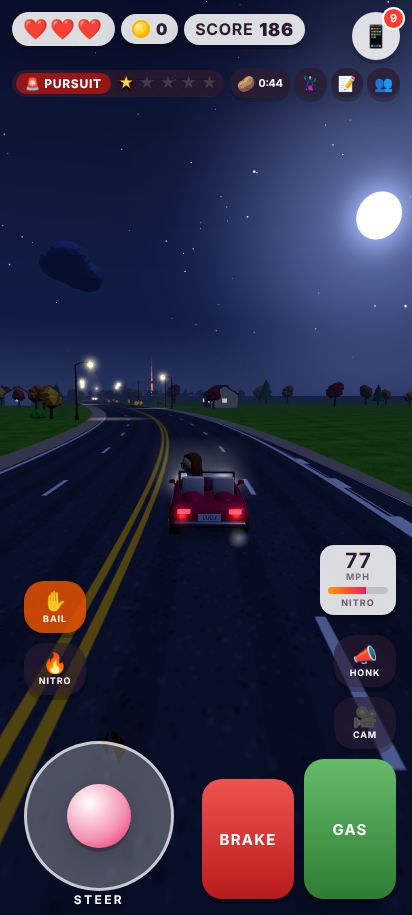
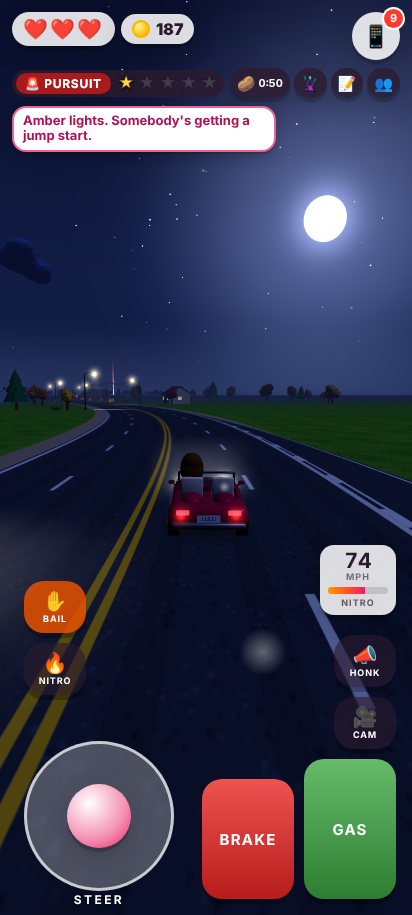
ci/hud: texts that don't need her don't happen (no card either; Ima's walk-back warning stays, react: true); Lulu's line docks outside the clear window on a phone (hud.js › dockSpot), others' lines over the road hide there; no SCORE pill on phones; calm: ≤ 1 text card a minute; hudworst: her bubble 
Claude-Session: https://claude.ai/code/session_01JZVbYDqg8n5SFNs7rVBjSx

diff --git a/3d/js/features/banter/bubbles.js b/3d/js/features/banter/bubbles.js
@@ -8,7 +8,7 @@
 // left of the screen instead.
 import * as THREE from "three";
 import { ctx, css } from "../../core/ctx.js";
-import { bubbleOk } from "../../hud.js";
+import { bubbleOk, phoneHud, dockSpot, inClearWindow } from "../../hud.js";
 import { CAMS } from "../../core/camera.js";
 import { clamp } from "./util.js";
 
@@ -41,6 +41,10 @@ css("banter-bubbles", `
 body.tv .bn-in { font-size: 22px; max-width: 380px; padding: 8px 16px 9px; border-radius: 18px; }
 body.tv .bn-npc .bn-in { font-size: 19px; max-width: 320px; padding: 6px 13px 7px; }
 body.tv .bn-lulu.big .bn-in { font-size: 25px; }
+/* a phone: Lulu's line sits in the left column, out of the way (no tail: it isn't next to her) */
+.bn-lulu.dock .bn-in::before, .bn-lulu.dock .bn-in::after { display: none; }
+.bn-lulu.dock .bn-in { max-width: min(300px, 64vw); text-align: left; }
+@media (min-aspect-ratio: 1/1) { .bn-lulu.dock .bn-in { max-width: min(240px, 27vw); } }
 @media (max-width: 600px), (max-height: 420px) {
   .bn-in { font-size: 13px; max-width: 42vw; padding: 5px 9px 6px; }
   .bn-npc .bn-in { font-size: 11.5px; max-width: 36vw; padding: 3px 8px 4px; }
@@ -96,7 +100,7 @@ export function setHeadSource(fn) { headFn = fn; }
 /** Show a line over Lulu's head for `dur` seconds (replaces what she was saying). */
 export function showLulu(text, dur, { big = false, cat = "" } = {}) {
     L.inner.textContent = text;
-    L.el.className = "bn-b bn-lulu" + (big ? " big" : "");
+    L.el.className = "bn-b bn-lulu" + (big ? " big" : "") + (phoneHud() ? " dock" : "");      // (a phone: docked outside the clear window — ci/hud)
     L.on = true; L.t = 0; L.dur = dur; L.text = text; L.cat = cat; L.n++;
     L.x = L.y = -1;
     L.w = L.h = 0;           // measured once per line, on its first visible frame
@@ -108,6 +112,13 @@ export function luluBubble() { return L; }
 function placeLulu(W, Hh) {
     const cam = ctx.camera, car = ctx.car;
     if (!L.w) { L.w = L.inner.offsetWidth; L.h = L.inner.offsetHeight; }
+    // a phone: never over the car / the road ahead — her line docks in the left column (hud.js › dockSpot), or waits
+    const dk = L.el.classList.contains("dock") ? dockSpot(L.w, L.h) : undefined;
+    if (dk !== undefined) {
+        L.el.style.opacity = dk ? "" : "0";
+        if (dk && (dk.x !== L.x || dk.y !== L.y)) { L.x = dk.x; L.y = dk.y; L.el.style.transform = `translate(${dk.x}px, ${dk.y}px)`; }
+        return;
+    }
     const fp = !!(CAMS[ctx.cam ? ctx.cam.mode : 0] || {}).fp;
     let x, y;
     if (!fp && headFn && headFn(_v)) {
@@ -166,6 +177,7 @@ function placeNpc(b, W, Hh) {
     if (!(_v.z < 1 && dist < 110 && Math.abs(_v.x) < 1.15 && Math.abs(_v.y) < 1.15)) { b.el.style.opacity = "0"; return; }
     b.el.style.opacity = "";
     const x = (_v.x + 1) / 2 * W, y = (1 - _v.y) / 2 * Hh;
+    if (phoneHud() && inClearWindow(x, y)) { b.el.style.opacity = "0"; return; }      // (a phone: nobody's line over the car / the road ahead — ci/hud)
     const sc = clamp(24 / dist, 0.72, 1);
     b.el.style.transform = `translate(${x.toFixed(1)}px, ${y.toFixed(1)}px) translate(-50%, -100%) scale(${sc.toFixed(2)})`;
 }

diff --git a/scripts/tests3d/hudworst.js b/scripts/tests3d/hudworst.js
@@ -32,11 +32,11 @@ const BEFORE = !!process.env.HUDWORST_BEFORE;      // (only the pictures: the "b
 const PIECES = {
   pills: "#hud .hud-tl .pill", trip: "#hud .trip", tripLabel: "#tripLabel", pause: "#pauseBtn", phone: "#phoneBtn",
   obj: "#objLine > *", left: "#slot-left > *", center: "#slot-center > *:not(#banner):not(#objLine)", right: "#slot-right > *",
-  speedo: "#hud .speedo", prompt: "#slot-bottom .prompt",
+  speedo: "#hud .speedo", prompt: "#slot-bottom .prompt", bubble: "#banterBubbles .bn-lulu:not(.hide) .bn-in",
   stick: "#stickBase", pedals: "#touch .pedals .tbtn", extra: "#touchExtra button",
 };
 /** The persistent HUD that must stay out of the clear window (touch buttons sit in the bands / side columns by design). */
-const PERSIST = ["pills", "trip", "tripLabel", "obj", "left", "center", "right", "speedo", "extra", "pedals", "stick"];
+const PERSIST = ["pills", "trip", "tripLabel", "obj", "left", "center", "right", "speedo", "extra", "pedals", "stick", "bubble"];
 const measure = t => t.L(`(() => { const P = ${JSON.stringify(PIECES)}, W = innerWidth, H = innerHeight, out = [];
     const hidden = e => { for (let n = e; n && n !== document.body; n = n.parentElement) { const c = getComputedStyle(n); if (c.display === "none" || c.visibility === "hidden" || +c.opacity < 0.1 || n.classList.contains("hidden") || n.classList.contains("calm-off")) return true; } return false; };
     for (const [g, sel] of Object.entries(P)) for (const e of document.querySelectorAll(sel)) {
@@ -124,6 +124,9 @@ module.exports = {
       await g(`(ctx.applySettings(), true)`);
       await device(t, d);
       await worstCase(t);
+      // (a phone: + Lulu says a long line — her bubble docks outside the clear window, or waits; bigger screens keep it by her head)
+      const phoneSize = /^[pl]\d/.test(name);
+      await t.L(`import("./js/features/banter/bubbles.js").then(m => { ${phoneSize ? `m.showLulu("Amber lights. Somebody's getting a jump start.", 99)` : "m.hideLulu()"}; return true; })`);
       await t.frames(12);
       const live = await g(`({ day: !!(ctx.day && ctx.day.active), rob: !!document.querySelector(".heist-chip.on"), job: !!ctx.hustle.job, chase: !!ctx.law.chasing, pass: ctx.roadevents.passengerTime > 0, state: L3.state })`);
       const m = await measure(t);
@@ -138,6 +141,7 @@ module.exports = {
       t.check(`${where}: at most ${maxFull} full objective chip${maxFull > 1 ? "s" : ""} (the rest are badges)`, m.full.length <= maxFull, m.full.join(","));
       t.check(`${where}: no text cut off with "…"`, !m.cut.length, m.cut.join(" | "));
     }
+    await t.L(`import("./js/features/banter/bubbles.js").then(m => { m.hideLulu(); return true; })`);
     await t.page.setViewportSize({ width: 412, height: 915 });
     await setSave(`m.save3d.settings.tv = "off";`);
     await g(`(ctx.applySettings(), true)`);

diff --git a/3d/js/hud.js b/3d/js/hud.js
@@ -329,6 +329,23 @@ const maxFull = () => phoneHud() ? 1 : innerWidth * innerHeight >= 1280 * 700 ? 
 export function clearWindow() {
     return innerWidth > innerHeight ? { x0: 0.3, x1: 0.7, y0: 0.4, y1: 1 } : { x0: 0.26, x1: 0.74, y0: 0.36, y1: 0.68 };
 }
+/** Is the screen point (px) inside the clear window? */
+export function inClearWindow(x, y) { const c = clearWindow(); return x > c.x0 * innerWidth && x < c.x1 * innerWidth && y > c.y0 * innerHeight && y < c.y1 * innerHeight; }
+/** A phone's spot for Lulu's speech bubble (w × h px), OUTSIDE the clear window: the left column, under the top band,
+ *  the objective line and the left stack. → { x, y } (top-left), null = no room right now (don't show it), undefined =
+ *  not a phone (place it as you like). banter's bubbles ask it. */
+export function dockSpot(w, h) {
+    if (!phoneHud() || el.hud.classList.contains("hidden")) return undefined;
+    const W = innerWidth, Hh = innerHeight, x = Math.max(12, Math.min(W - w - 12, 12)), c = clearWindow();
+    let top = 12;
+    for (const sel of ["#hud .hud-tl .pill", "#pauseBtn", "#phoneBtn", "#objLine.phone:not(.empty)", "#hud .hud-top", "#slot-left > *", "#slot-right > *", "#slot-center > *:not(#banner)"])
+        for (const o of document.querySelectorAll(sel)) { if (!shownEl(o)) continue; const r = o.getBoundingClientRect(); if (r.left < x + w + 6 && r.right > x - 6) top = Math.max(top, r.bottom + 8); }
+    let bottom = W > Hh ? Hh : c.y0 * Hh;                       // upright: above the window; on its side: the left column
+    for (const sel of ["#stickBase", "#touchExtra > *", "#touch .tbtn"]) for (const o of document.querySelectorAll(sel)) {
+        if (!shownEl(o)) continue; const r = o.getBoundingClientRect(); if (r.left < x + w + 6 && r.right > x - 6 && r.top > top) bottom = Math.min(bottom, r.top - 6); }
+    if (W > Hh && x + w > c.x0 * W) return null;                 // (too wide for the left column)
+    return top + h <= bottom ? { x, y: Math.round(top) } : null;
+}
 /** Register a chip as an objective (call once, after it's in its slot; a re-created chip registers again). */
 export function objective(e, opts = {}) {
     if (!e) return e;

diff --git a/scripts/tests3d/calm.js b/scripts/tests3d/calm.js
@@ -209,6 +209,7 @@ async function body(t, pages, riders) {
 
   if (REPORT_ONLY) { t.check("report only (CALM_REPORT)", true); return; }
   const per = r => r ? r.perMin : 0;
+  const per1 = (r, kind) => (r.by[kind] || 0) * 60 / Math.max(1, r.secs);
   t.check(`solo highway: ≤ ${LIMIT.solo} pop-ups a minute`, per(results.solo) <= LIMIT.solo, JSON.stringify(results.solo.by));
   t.check("solo highway: never two toasts at once on a phone", results.solo.maxToasts <= 1 && results.soloPortrait.maxToasts <= 1, `${results.solo.maxToasts} / ${results.soloPortrait.maxToasts}`);
   if (results.foot) t.check(`on foot in town: ≤ ${LIMIT.foot} pop-ups a minute`, per(results.foot) <= LIMIT.foot, JSON.stringify(results.foot.by));
@@ -218,6 +219,9 @@ async function body(t, pages, riders) {
   t.check("a stranger never produces a toast / banner / record line (party)", fromStrangers(results.friends).length === 0, JSON.stringify(fromStrangers(results.friends)));
   t.check("a stranger never produces a toast / banner / record line (solo online)", fromStrangers(results.online).length === 0, JSON.stringify(fromStrangers(results.online)));
   for (const k of Object.keys(results)) t.check(`${k}: pop-ups never cover more than a fifth of the screen`, results[k].coverMax <= 20, `${results[k].coverMax} %`);
+  // filler texts don't happen any more (ci/hud landing 3: a text that doesn't need her makes no card) — the count of
+  // text cards a minute can only have gone DOWN (it was 1–3 a minute on the highway / on foot before)
+  for (const k of ["solo", "foot"]) if (results[k]) t.check(`${k}: at most 1 text card a minute (filler texts are silent)`, per1(results[k], "text") <= 1, JSON.stringify(results[k].by));
   // the persistent-chip limit (ci/hud — the owner: "too much going on"): on a phone ONE full objective at a time (the rest
   // are badges on its line), and at most CHIPS_MAX chips in the HUD's stacks at once (texts / calls / the radio are pop-ups)
   for (const k of Object.keys(results)) t.check(`${k}: one full objective at a time on a phone, ≤ ${CHIPS_MAX} chips at once`,

diff --git a/3d/js/features/phone/index.js b/3d/js/features/phone/index.js
@@ -36,13 +36,19 @@ const S = store("phone", { hinted: false });
 // ── ctx.phone: extend journey's (or stand alone without it) ────────────────
 const phone = ctx.phone || (ctx.phone = { busy: () => false });
 const bubble = phone.text ? phone.text.bind(phone) : null;
-/** A text: the driving bubble (journey) AND the inbox. opts { from, emoji, color, msg, dur, thread? } */
+/** A text: the driving bubble (journey) AND the inbox. opts { from, emoji, color, msg, dur, thread?, need? }
+ *  ci/hud landing 3: a text that doesn't need her (inbox.js › needs) doesn't happen at all — no inbox line AND no card
+ *  on the HUD (it would only move the clutter onto the road); the "phone:text" event (quiet: true) still fires. → the
+ *  card, or null. */
 phone.text = function text(opts = {}) {
     const m = post(opts);
+    // (opts.react: a line that answers something she JUST did — Ima when she walks off the road — shows its card, isn't
+    //  kept, and never while she's in an activity)
+    if (!m && !(opts.react && !(ctx.engaged && ctx.engaged()))) return null;
     let el = null;
     if (bubble) { try { el = bubble(opts); } catch (e) { console.error("[phone] bubble", e); } }
     else H.toast(`💬 ${m.from}: ${m.msg}`, "pink");
-    if (el && el.addEventListener && m) {      // (a passing bubble that isn't kept in Messages opens nothing)
+    if (el && el.addEventListener && m) {
         el.style.cursor = "pointer";
         el.title = "Open in Messages";
         el.addEventListener("click", e => { e.stopPropagation(); if (!PH.open) openPhone("messages", { thread: m.k }); });

diff --git a/scripts/tests3d/memory.js b/scripts/tests3d/memory.js
@@ -125,9 +125,11 @@ module.exports = {
     await t.until(`__lulu3d.state === "playing"`, "back to driving", 20000);
     const sent0 = await g(`${D}.TX.sent`);
     await g(`(${D}.TX.cool = 0, ${D}.M.texts.forEach(x => { x.run = ctx.memory.runs; x.after = 0; }), true)`);
-    await t.until(`!!document.querySelector(".jtext")`, "a fare texts Lulu (ctx.phone.text)", 20000);
-    const tx = await t.L(`document.querySelector(".jtext").textContent`);
-    t.check("…the groom's wedding photo / @LuxeLeah's tag", /Mendel|LuxeLeah/.test(tx), tx);
+    // (ci/hud landing 3: a fare's follow-up doesn't need her — it goes out quietly: no card on the road, nothing in Messages)
+    await g(`(window.__pt = [], L3.on("phone:text", e => window.__pt.push(e)), true)`);
+    await t.until(`window.__pt.length > 0`, "a fare texts Lulu (ctx.phone.text)", 20000);
+    const tx = await t.L(`window.__pt.map(e => e.from + ": " + e.msg).join(" | ")`);
+    t.check("…the groom's wedding photo / @LuxeLeah's tag — quietly (no card on the HUD)", /Mendel|LuxeLeah/.test(tx) && await t.L(`!document.querySelector(".jtext")`), tx);
     // (the names go in as a JSON list: a regex's \( inside this template string would lose its backslash)
     t.check("…a passing bubble only: it doesn't fill the phone's 💬 Messages (ci/hud — filler is never kept)", await g(`!ctx.phone.inbox || !ctx.phone.inbox.threads().some(th => ${JSON.stringify(["Mendel (the groom)", "@LuxeLeah"])}.includes(th.title))`),
       JSON.stringify(await g(`ctx.phone.inbox ? ctx.phone.inbox.threads().map(th => th.title) : null`)));

diff --git a/scripts/tests3d/phone.js b/scripts/tests3d/phone.js
@@ -105,7 +105,7 @@ module.exports = {
     // (ci/hud landing 3: only texts that need her are kept — filler is a passing bubble that never counts)
     await g(`ctx.phone.text({ from: "Bubbe", msg: "Just checking in, mamele" })`);
     await t.frames(3);
-    t.check("a filler text: the bubble shows, but it isn't kept and the 📱 badge stays 0", await t.L(`/Just checking/.test((document.querySelector("#slot-left .jtext") || {}).textContent || "")`)
+    t.check("a filler text doesn't happen: no card on the HUD, not kept, the 📱 badge stays 0", await t.L(`!/Just checking/.test((document.querySelector("#slot-left .jtext") || {}).textContent || "")`)
       && await g(`ctx.phone.inbox.unread() === 0 && ctx.phone.inbox.threads().length === 0`) && await t.L(`!document.querySelector("#phoneBtn .lp-dot.on")`));
     await t.L(`document.querySelectorAll("#slot-left .jtext").forEach(e => e.remove())`);
     await g(`ctx.phone.text({ from: "Ima", emoji: "👩", msg: "Did you eat? Text me back.", need: true })`);

diff --git a/scripts/tests3d/hudfit.js b/scripts/tests3d/hudfit.js
@@ -85,7 +85,7 @@ async function busiest(t, d, foot) {
     H.hideBanner(); H.banner("<b>🏙 " + S[0] + "</b><small>" + S.slice(1).join(" · ") + "</small>", 0, { key: "town", prio: 2 }); return true; })()`);
   // exactly one 💬 text card in the left column (a town's gossip / Bubbe's text arrives on its own at random times)
   await g(`(() => { document.querySelectorAll("#slot-left .jtext").forEach(e => e.remove());
-    window.__hfText = ctx.phone.text({ from: "BUBBE", emoji: "👵", color: "#E91E63", msg: "Lakewood?! What did you do wrong?", dur: 900 });
+    window.__hfText = ctx.phone.text({ from: "BUBBE", emoji: "👵", color: "#E91E63", msg: "Lakewood?! What did you do wrong?", dur: 900, need: true });
     window.__hfText.style.animation = "none"; return true; })()`);      // (its 0.3 s slide-in from the left isn't over in 14 fast frames: measure it where it lands)
   await g(`(L3.H.prompt("✋ <b>Talk to Heshy</b>"), true)`);
   await t.frames(14);

diff --git a/3d/style3d.css b/3d/style3d.css
@@ -719,6 +719,9 @@ body.tv .obj-badge { height: 44px; min-width: 44px; padding: 0 12px; font-size: 
 #objLine .day-chip { display: flex; align-items: baseline; gap: 6px; padding: 5px 11px; font-size: 13px; }
 #objLine .day-chip small { display: inline; font-size: 11.5px; }
 #objLine .re-badge { font-size: 13px; padding: 4px 12px; }
+/* a phone: no SCORE pill — one world, no game over: the run's score has no job on a small screen (the Scrapbook keeps
+   the bests; a bigger screen still shows it) */
+@media (max-width: 600px), (max-height: 520px) { #hud .pill.score { display: none; } }
 /* a phone: the stacks start right under the top band — hud.js keeps them under the objective line / the trip bar */
 @media (max-aspect-ratio: 1/1) {
     body.touch .hud-slot.left, body.touch .hud-slot.right, body.touch .hud-slot.center,

diff --git a/3d/js/features/foot/bounds.js b/3d/js/features/foot/bounds.js
@@ -599,7 +599,7 @@ function soreFeet(F, B) {
 
 function imaText(F, B, off) {
     const msg = pick(off ? LINES.imaField : LINES.imaRoad);
-    if (ctx.phone && ctx.phone.text) { try { ctx.phone.text({ from: "IMA", emoji: "📱", color: "#E91E63", msg, dur: 5 }); return; } catch (e) { console.error(e); } }
+    if (ctx.phone && ctx.phone.text) { try { ctx.phone.text({ from: "IMA", emoji: "📱", color: "#E91E63", msg, dur: 5, react: true }); return; } catch (e) { console.error(e); } }
     H.toast(`📱 IMA: ${msg}`, "pink");
 }
 
